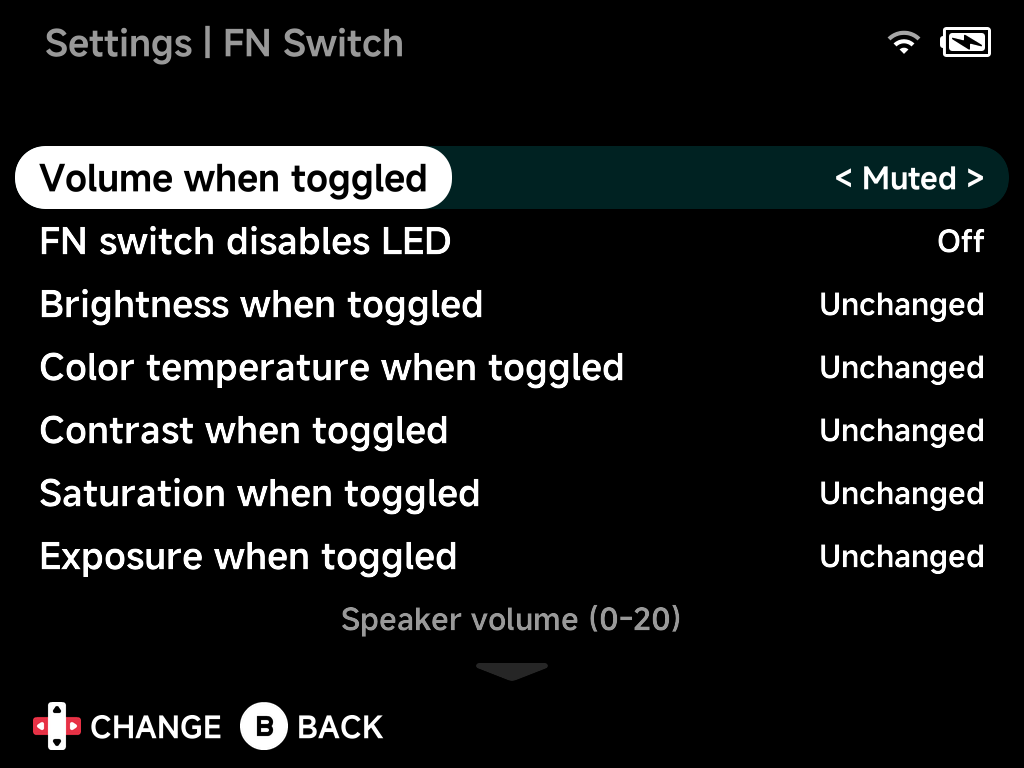
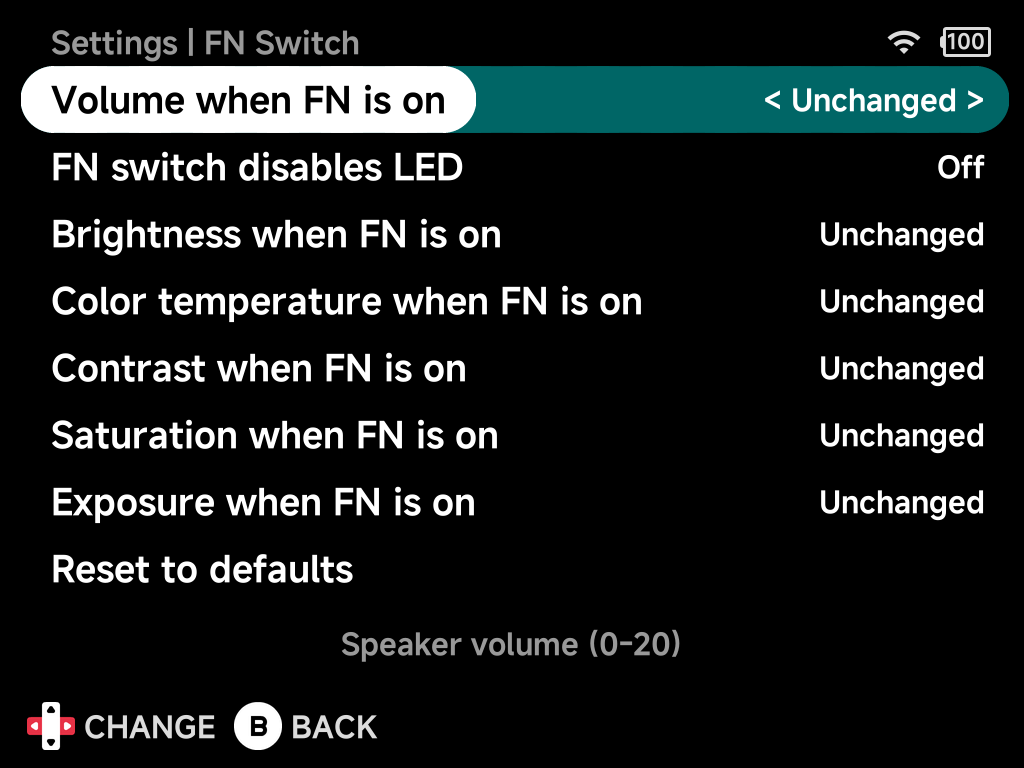
docs(settings): emulator shortcuts are global, FN switch is night mode only (#11)

diff --git a/docs/handheld/guide/in-game-options.md b/docs/handheld/guide/in-game-options.md
@@ -15,7 +15,6 @@ The Options menu contains:
 | [Shaders](#shaders) | The video shader pipeline and shader presets. |
 | [Cheats](#cheats) | Turn the game's cheats on and off. |
 | [Controls](#controls) | Remap the emulated controller's buttons. |
-| [Shortcuts](#shortcuts) | Bind in-game hotkeys (save/load state, fast-forward, rewind, turbo…). |
 | [Achievements](#achievements) | Browse the game's RetroAchievements — shown only when achievements are enabled. |
 | [Save Changes](#save-changes) | Keep your changes for this system or this game, or restore defaults. |
 
@@ -47,7 +46,7 @@ same list appears for every system. Use `LEFT` / `RIGHT` to change a value.
 | **Debug HUD** | Off, On | Show frames per second, CPU load, resolution and scaler information on screen. |
 | **Max FF Speed** | None, 2x – 8x | Cap for fast-forward (it may run slower depending on the game and emulator). Default: 4x. |
 | **Fast forward audio** | Off, On | Play or mute audio while fast-forwarding. Default: Off. |
-| **Rewind** | Off, On | Enable the in-memory rewind buffer. Uses extra CPU and memory, and needs a [shortcut](#shortcuts) (**Toggle Rewind** or **Hold Rewind**) to use during play. Default: Off. |
+| **Rewind** | Off, On | Enable the in-memory rewind buffer. Uses extra CPU and memory, and needs a [shortcut](../settings/emulator-shortcuts.md) (**Toggle Rewind** or **Hold Rewind**) to use during play. Default: Off. |
 | **Rewind Buffer (MB)** | 8, 16, 32, 64, 128, 256 | Memory reserved for rewind snapshots — more memory means you can rewind further back. Default: 64. |
 | **Rewind Interval** | 16 ms (~60 fps) – 600 ms | Time between rewind snapshots. Shorter intervals give smoother rewinding but use more CPU and memory. Default: 16 ms. |
 | **Rewind Compression** | Off, On | Compress snapshots to fit more into the buffer, at the cost of CPU. Default: On. |
@@ -100,29 +99,9 @@ the buttons the running core uses are listed.
 
 ## Shortcuts
 
-Hotkeys for actions during play. All are unbound (`NONE`) by default. Bind
-them the same way as [Controls](#controls): `A` then the button or
-`MENU` + button to set, `X` to clear. Using a `MENU` + button combination
-keeps the shortcut from clashing with the game's own controls: a shortcut on
-a button the game also uses does both. On the Famicom Disk System, `L1` and
-`R1` are the [disk buttons](../emulators/other-systems.md#flipping-disk-sides).
-
-Shortcuts are saved per emulator (or per game), so fast-forward bound for
-one system isn't bound for another until you set it there too.
-
-| Shortcut | Action |
-| --- | --- |
-| **Save State** / **Load State** | Save to / load from the current save state slot. |
-| **Undo Load State** | Go back to where you were before the last Load State. |
-| **Reset Game** | Restart the game. |
-| **Save & Quit** | Save and exit the game. |
-| **Cycle Scaling** | Step through the Screen Scaling modes. |
-| **Cycle Effect** | Step through the Screen Effect modes. |
-| **Toggle FF** / **Hold FF** | Fast-forward: toggle on/off, or only while held. |
-| **Toggle Rewind** / **Hold Rewind** | Rewind: toggle on/off, or only while held. Needs [Rewind](#frontend) turned on. |
-| **Game Switcher** | Open the [Game Switcher](game-switcher.md). |
-| **Screenshot** | Take a screenshot. |
-| **Toggle Turbo A / B / X / Y / L / L2 / R / R2** | Turn turbo (rapid fire) on or off for that button. |
+In-game hotkeys (save/load state, fast-forward, rewind, turbo…) aren't set in
+this menu. They are global, one set for every console, and you bind them in
+[Settings → Emulator Shortcuts](../settings/emulator-shortcuts.md).
 
 ## Achievements
 
@@ -140,8 +119,9 @@ If the game isn't recognized or has no achievements, a message tells you so.
 
 ## Save Changes
 
-Keeps what you've changed in Options: Frontend, Core Options, Shaders,
-Controls and Shortcuts. The entry's description tells you which settings the
+Keeps what you've changed in Options: Frontend, Core Options, Shaders and
+Controls. [Shortcuts](#shortcuts) aren't part of it; they're the same for
+every console. The entry's description tells you which settings the
 game is using right now: *Using defaults*, *Using console config* or *Using
 game config*.
 

diff --git a/docs/handheld/settings/emulator-shortcuts.md b/docs/handheld/settings/emulator-shortcuts.md
@@ -1,0 +1,61 @@
+# Emulator Shortcuts
+
+Hotkeys for actions during play: save states, fast-forward, rewind, turbo
+and more. All are unbound (`NONE`) by default.
+
+Shortcuts are global. One set applies to every console and every game on the
+device, so fast-forward bound once works everywhere.
+
+![Emulator Shortcuts settings](../../assets/screenshots/set-emulator-shortcuts.png)
+
+!!! warning "Upgrading from an older version?"
+    Shortcuts set before this version (in the in-game menu, per emulator or
+    per game) are not carried over. Set them again here.
+
+## Binding a shortcut
+
+- Press `A` on a shortcut, then press the button you want to use, or hold
+  `MENU` and press a button for a `MENU` + button combination. You have 5
+  seconds; `B` cancels.
+- `LEFT` / `RIGHT` steps through the buttons instead.
+- Press `X` to clear a shortcut (`NONE`).
+
+Using a `MENU` + button combination keeps the shortcut from clashing with the
+game's own controls: a shortcut on a button the game also uses does both. A
+`MENU` + button shortcut doesn't also press that button in the game. On the
+Famicom Disk System, `L1` and `R1` are the
+[disk buttons](../emulators/other-systems.md#flipping-disk-sides).
+
+`MENU` + `SELECT` can't be bound. It always opens the
+[Game Switcher](../guide/game-switcher.md).
+
+## Shortcuts
+
+| Shortcut | Action |
+| --- | --- |
+| **Save State** / **Load State** | Save to / load from the current save state slot. |
+| **Undo Load State** | Go back to where you were before the last Load State. |
+| **Reset Game** | Restart the game. |
+| **Save & Quit** | Save and exit the game. |
+| **Cycle Scaling** | Step through the Screen Scaling modes. |
+| **Cycle Effect** | Step through the Screen Effect modes. |
+| **Toggle FF** / **Hold FF** | Fast-forward: toggle on/off, or only while held. |
+| **Toggle Rewind** / **Hold Rewind** | Rewind: toggle on/off, or only while held. Needs [Rewind](../guide/in-game-options.md#frontend) turned on. |
+| **Game Switcher** | Open the [Game Switcher](../guide/game-switcher.md). |
+| **Screenshot** | Take a screenshot. |
+| **Toggle Turbo A / B / X / Y / L / L2 / R / R2** | Turn turbo (rapid fire) on or off for that button. |
+| **Toggle D-pad Joystick** | Make the D-pad drive the left analog stick, until you press it again. |
+
+## Toggle D-pad Joystick
+
+For games that expect an analog stick on a device without one, such as
+[Nintendo 64](../emulators/nintendo-64.md) or [PSP](../emulators/psp.md)
+games on the Brick. While it's on, the D-pad moves the left stick instead of
+pressing the D-pad. A notification shows **D-pad: Joystick** or **D-pad:
+D-pad** each time you press it.
+
+It is off every time a game starts.
+
+## Reset to defaults
+
+Clears every shortcut.

diff --git a/docs/handheld/settings/fn-switch.md b/docs/handheld/settings/fn-switch.md
@@ -4,9 +4,9 @@ Choose what flipping the **FN switch** does. The switch applies the changes you
 pick here all at once, and reverts them when you flip it back. Display options
 can be left `Unchanged`.
 
-Treat it as a quick-toggle profile for whatever you switch between most: a
-quiet, dim setup for late-night play, turbo fire and a joystick-style D-pad for
-one particular game, or just LEDs off.
+Treat it as a night-mode profile: a quiet, dim setup for late-night play, or
+just LEDs off. It changes only volume, LEDs and the screen. For turbo fire
+or a joystick-style D-pad, use [Emulator Shortcuts](emulator-shortcuts.md).
 
 ![FN switch settings](../../assets/screenshots/set-fn.png)
 
@@ -18,12 +18,6 @@ The FN switch and the OSD **Mute** toggle are separate things.
   nothing else, and doesn't depend on the FN switch. Press either volume key to unmute; that press also
   steps the volume.
 - **Volume when FN is on** (below) is part of the FN profile, not the OSD mute.
-
-!!! tip "D-pad stopped moving the menu cursor?"
-    Check **Dpad mode when FN is on**. `Joystick` makes the D-pad act only as
-    an analog stick while the switch is on, so it no longer moves the menu
-    cursor. Flip the switch back, or set that
-    option to `Dpad` or `Both`.
 
 ## Volume when FN is on
 
@@ -56,17 +50,6 @@ Saturation enhancement while toggled, `-5`–`5`, or `Unchanged`.
 
 Exposure enhancement while toggled, `-4`–`5`, or `Unchanged`.
 *(Hardware-dependent.)*
-
-## Turbo fire A / B / X / Y / L1 / L2 / R1 / R2
-
-Eight separate toggles. While the FN switch is on, the enabled buttons
-auto-repeat (turbo fire) in games.
-
-## Dpad mode when FN is on
-
-On devices without analog sticks: `Dpad` (default), `Joystick` (the D-pad
-acts exclusively as an analog stick), or `Both` (D-pad sends both inputs at
-once). Useful for games that expect a stick.
 
 ## Reset to defaults
 

diff --git a/docs/handheld/guide/shortcuts.md b/docs/handheld/guide/shortcuts.md
@@ -26,7 +26,7 @@ Volume and brightness show an on-screen indicator as you adjust.
     instead.
 
 The **FN switch** is a shortcut of its own. One flick applies the set of
-changes you configured for it (volume, screen, LEDs, turbo fire, D-pad mode;
+changes you configured for it (volume, screen and LEDs;
 see [FN switch settings](../settings/fn-switch.md)). Flipping it back restores
 everything. Muting the speaker from the OSD is separate and does not depend on
 the switch.
@@ -57,6 +57,7 @@ the switch.
 | `MENU` | Pause the game and open the [in-game menu](playing-games.md#the-in-game-menu) |
 | `MENU` + `SELECT` | Save, grab a fresh screenshot, and quit straight back to the [Game Switcher](game-switcher.md). The fastest way to hop between games. |
 
-Fast-forward, rewind and turbo get their own configurable shortcuts
-(optionally `MENU`-modified). Set them under the in-game menu's
-[Options → Shortcuts](in-game-options.md#shortcuts), per emulator or per game.
+Save states, fast-forward, rewind, turbo and the D-pad joystick get their own
+configurable shortcuts (optionally `MENU`-modified). Set them once in
+[Settings → Emulator Shortcuts](../settings/emulator-shortcuts.md); they apply
+to every console.

diff --git a/docs/handheld/emulators/nintendo-64.md b/docs/handheld/emulators/nintendo-64.md
@@ -41,15 +41,17 @@ You can remap everything in the in-game menu under **Controls**.
 
 !!! note "Brick: no analog sticks"
     The **Brick** has no sticks, so most games (Mario Kart 64, Super Mario 64)
-    won't move. Set the
-    [FN switch's Dpad mode](../settings/fn-switch.md#dpad-mode-when-fn-is-on)
-    to `Joystick` or `Both`, and flip the switch on to steer with the D-pad.
+    won't move. Bind
+    [Toggle D-pad Joystick](../settings/emulator-shortcuts.md#toggle-d-pad-joystick)
+    in Settings → Emulator Shortcuts, then press it in-game to steer with
+    the D-pad. Press it again for the N64 D-pad.
 
 ??? info "More detail"
     - A stick push counts as a C-button press once it is most of the way
       over.
     - On the Brick, the D-pad normally drives the N64 D-pad, not the analog
-      stick. That's why games won't move until you change the FN switch.
+      stick. That's why games won't move until you turn on Toggle D-pad
+      Joystick. It is off again every time a game starts.
     - C-Up and C-Right have no button on the Brick.
 
 ## Video plugin

diff --git a/docs/handheld/guide/playing-games.md b/docs/handheld/guide/playing-games.md
@@ -15,7 +15,7 @@ Press `MENU` while playing to pause the game and open the in-game menu.
 | --- | --- |
 | **Continue** | Return to the game |
 | **Save** / **Load** | Save states, complete with screenshots so you can see what you're loading |
-| **Options** | [In-game options](in-game-options.md) for the running game (Frontend, Core Options, Shaders, Cheats, Controls, Shortcuts, Achievements and Save Changes), applied live |
+| **Options** | [In-game options](in-game-options.md) for the running game (Frontend, Core Options, Shaders, Cheats, Controls, Achievements and Save Changes), applied live |
 | **Quit** | Exit back to the menu. Quitting auto-saves to a hidden slot, so the [Game Switcher](game-switcher.md) can always resume exactly where you left off. |
 
 ??? info "More detail"

diff --git a/docs/handheld/settings/index.md b/docs/handheld/settings/index.md
@@ -14,8 +14,9 @@ page of the Settings app has its own page here.
 - [Network](network.md) — Wi-Fi
 - [Bluetooth](bluetooth.md) — pairing and audio
 - [Audio](audio.md) — output routing and sample rates
-- [FN Switch](fn-switch.md) — what the FN switch toggles, incl. turbo fire
+- [FN Switch](fn-switch.md) — a night-mode profile: volume, LEDs and screen
 - [F1 / F2 Keys](fn-keys.md) — launch a chosen tool straight from the menu
+- [Emulator Shortcuts](emulator-shortcuts.md) — in-game hotkeys for every console (save states, fast-forward, turbo…)
 - [Simple Mode](simple-mode.md) — the PIN-protected simplified menu
 - [System](system.md) — timeouts, clock, saves, power
 - [Developer](developer.md) — SSH/SFTP, sleep control, cleanup

diff --git a/docs/handheld/emulators/other-systems.md b/docs/handheld/emulators/other-systems.md
@@ -124,7 +124,7 @@ side A…).
 
 !!! warning "Keep shortcuts off L1 and R1 in FDS"
     The disk buttons work without `MENU`, so a
-    [shortcut](../guide/in-game-options.md#shortcuts) on the same button does
+    [shortcut](../settings/emulator-shortcuts.md) on the same button does
     both. A fast-forward shortcut on `R1` also ejects the disk, and the game
     then sits on its loading screen as if fast-forward had stopped working.
     Bind FDS shortcuts to another button or a `MENU` + button combination, or

diff --git a/docs/handheld/guide/emulator-options.md b/docs/handheld/guide/emulator-options.md
@@ -35,7 +35,7 @@ performance tweak without touching the rest of the library.
 ## In-game: the pause menu
 
 While playing, press `MENU` and choose **Options** to change settings live:
-Frontend (video/UI), Core Options, Shaders, Cheats, Controls, Shortcuts and
+Frontend (video/UI), Core Options, Shaders, Cheats, Controls and
 Achievements. Every entry except Core Options is covered in
 [In-game Options](in-game-options.md):
 
